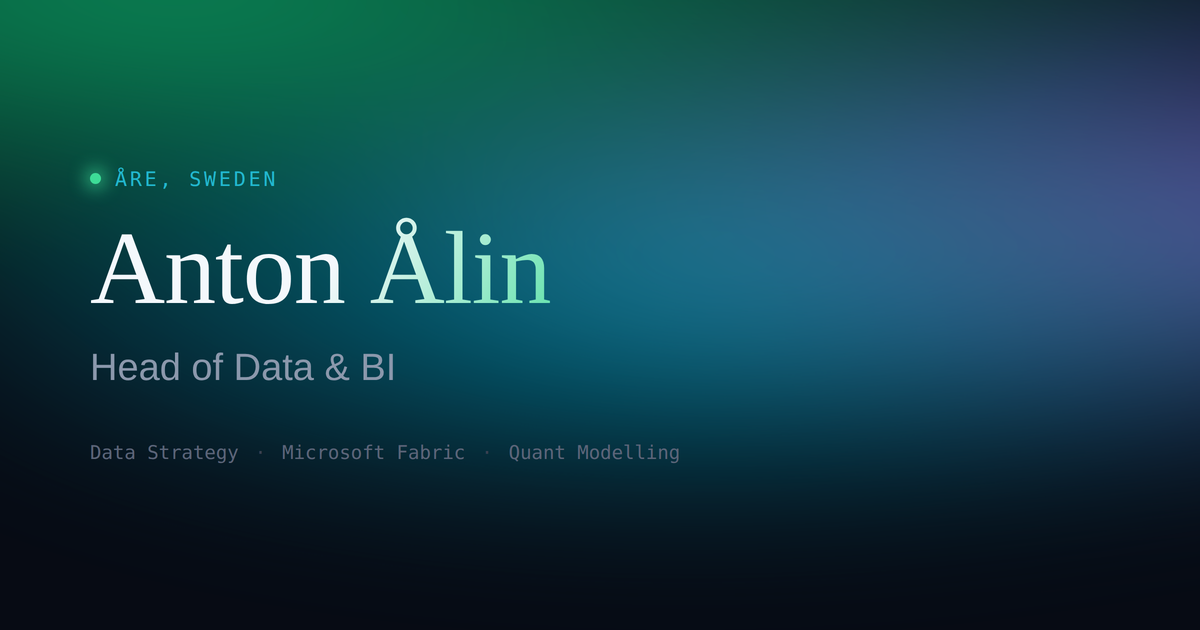
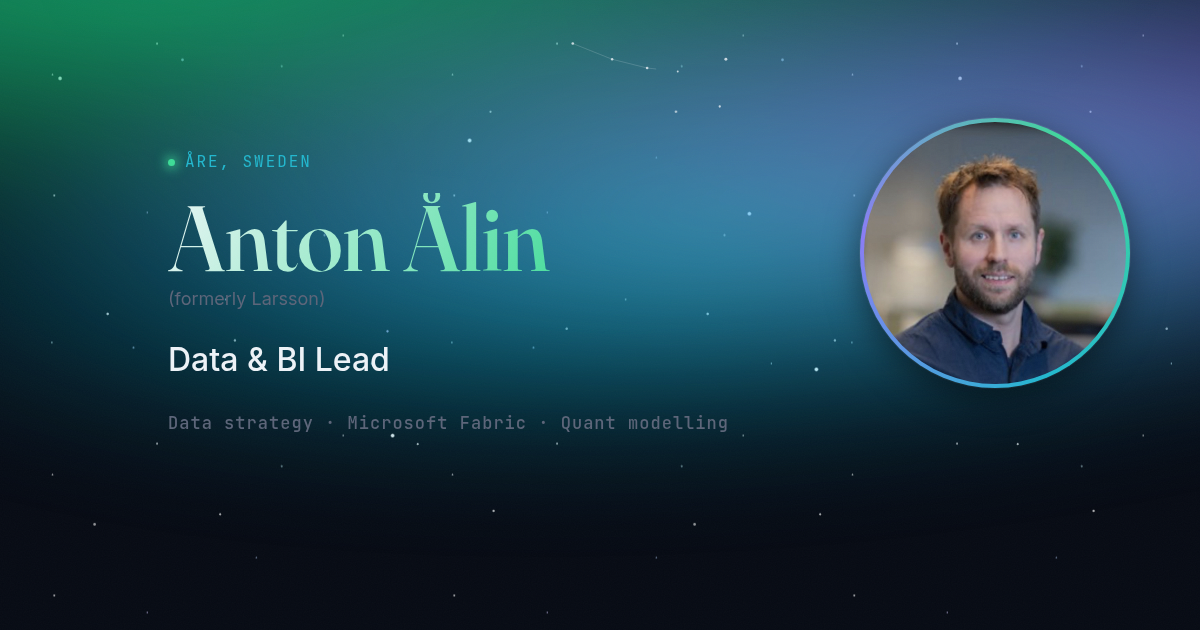
Share image from the page, sky from Åre's sun, snow when it snows
The Open Graph card is rendered by tools/build-og.py in the PDF workflow,
so what LinkedIn shows can never drift from the page (the hand-made one
still said "Head of Data & BI"). og-mode styles the hero for 1200x630.

The time-of-day phase now follows the sun's altitude over Åre rather
than fixed hours: civil twilight is dawn or dusk by side of solar noon,
midsummer never reaches night, a December afternoon does. Tests pin
known moments and the noon altitude at midsummer.

Open-Meteo's snowfall and snow depth feed the sky line ("Snödjup
Åreskutan 84 cm · snöar nu") and a light snowfall in the hero while it
snows, screen only.

Claude-Session: https://claude.ai/code/session_01EvjgkGhfjgsHR3tQt4VJgB

diff --git a/index.html b/index.html
@@ -500,6 +500,26 @@
   }
   body.tod-day .hero-sun{opacity:.9;transform:scale(1);}
 
+  /* ---------- Share image ----------
+     tools/build-og.py adds og-mode and captures 1200x630: the hero fills the
+     card, the bar and everything interactive stay out of the picture. */
+  body.og-mode .controlbar, body.og-mode .sky-line, body.og-mode .meta-row,
+  body.og-mode .portrait-dots, body.og-mode .kicker-summary, body.og-mode .hero-sun,
+  body.og-mode .hero-cloud, body.og-mode .hero-moon{display:none !important;}
+  body.og-mode .hero{min-height:630px;padding:150px 0 0;border-bottom:none;}
+  body.og-mode .hero-content{padding-right:0;}
+  body.og-mode h1.name{font-size:92px;}
+  body.og-mode .role-line{font-size:32px;margin-top:22px;color:var(--text-hi);}
+  body.og-mode .role-line::after{
+    content:"Data strategy · Microsoft Fabric · Quant modelling";display:block;margin-top:26px;
+    font-family:'JetBrains Mono',monospace;font-size:17px;letter-spacing:.06em;color:var(--text-faint);
+  }
+  body.og-mode .role-former{font-size:18px;}
+  body.og-mode .eyebrow{font-size:16px;}
+  body.og-mode .portrait-frame{position:fixed;top:118px;right:70px;}
+  body.og-mode .portrait-ring{width:270px;height:270px;}
+  body.og-mode .aurora-layer{opacity:.7;}
+
   /* ---------- Moon and space weather ----------
      The moon is drawn by script with tonight's real phase; it fades out by
      day. The aurora layer's strength follows NOAA's planetary K-index when
@@ -517,6 +537,19 @@
   body.tod-dawn  .hero-moon{opacity:.5;transform:scale(1);}
   @media (max-width:760px){ .hero-moon{top:3%;right:auto;left:8%;width:40px;height:40px;} }
   @media (prefers-reduced-motion: reduce){ .hero-moon{transition:none;} }
+  /* Snow: drawn only while Open-Meteo reports snowfall on Åreskutan */
+  .hero-snow{position:absolute;inset:0;z-index:0;pointer-events:none;overflow:hidden;}
+  .hero-snow i{
+    position:absolute;top:-12px;display:block;border-radius:50%;
+    background:rgba(255,255,255,.75);filter:blur(.4px);
+    animation:snow-fall linear infinite;
+  }
+  @keyframes snow-fall{
+    0%{transform:translate3d(0,0,0);opacity:0;}
+    8%{opacity:1;}
+    100%{transform:translate3d(var(--sx,20px),calc(100% + 640px),0);opacity:.2;}
+  }
+  @media (prefers-reduced-motion: reduce){ .hero-snow{display:none;} }
   .sky-line{
     display:flex;flex-wrap:wrap;gap:6px 14px;margin-top:14px;
     font-family:'JetBrains Mono',monospace;font-size:11.5px;letter-spacing:.06em;
@@ -1334,7 +1367,7 @@
 
     .controlbar, .aurora-layer, .scroll-progress{display:none !important;}
     .hero-sun, .hero-cloud, .career-map, .skip-link, .music, .game-btn, .quiz-scrim, .hero-moon, .sky-line,
-    .live-note, .project-chart.is-live, .mc-wrap, .ski-scrim{display:none !important;}
+    .live-note, .project-chart.is-live, .mc-wrap, .ski-scrim, .hero-snow{display:none !important;}
     .verify-trigger, .verify-popover, .vcard-btn{display:none !important;}
 
     /* Scroll-reveal must never hide content on paper */
@@ -2260,16 +2293,34 @@
      this only decides which of the four applies. Rechecked every ten minutes
      in case a visit spans a phase boundary — the registered custom properties
      then ease the aurora across rather than snapping on the next repaint. */
-  (function(){
+  var cvTod = (function(){
     var PHASES = ['tod-day', 'tod-dusk', 'tod-night', 'tod-dawn'];
-    function phase(hour){
-      if(hour >= 5  && hour < 8)  return 'tod-dawn';
-      if(hour >= 8  && hour < 17) return 'tod-day';
-      if(hour >= 17 && hour < 22) return 'tod-dusk';
+    /* The sky is Åre's, not the visitor's: the sun's altitude over 63.4°N,
+       13.08°E at this moment decides the phase. Day above the horizon,
+       civil twilight (0 to −6°) is dawn or dusk by which side of solar noon
+       we are on, and below that it is night. Midsummer never gets dark. */
+    var LAT = 63.4 * Math.PI / 180, LON = 13.08;
+    function sun(date){
+      var d = date.getTime() / 864e5 - 10957.5;                                   /* days since J2000.0 */
+      var g = (357.529 + .98560028 * d) * Math.PI / 180;                          /* mean anomaly */
+      var L = (280.459 + .98564736 * d + 1.915 * Math.sin(g) + .02 * Math.sin(2 * g)) * Math.PI / 180;
+      var e = (23.439 - 3.6e-7 * d) * Math.PI / 180;
+      var ra = Math.atan2(Math.cos(e) * Math.sin(L), Math.cos(L));
+      var dec = Math.asin(Math.sin(e) * Math.sin(L));
+      var gmst = (18.697374558 + 24.06570982441908 * d) % 24;
+      var H = ((gmst + LON / 15) * 15 * Math.PI / 180) - ra;                       /* hour angle, 0 at solar noon */
+      var alt = Math.asin(Math.sin(LAT) * Math.sin(dec) + Math.cos(LAT) * Math.cos(dec) * Math.cos(H));
+      var hDeg = ((H * 180 / Math.PI) % 360 + 360) % 360;
+      return {alt: alt * 180 / Math.PI, afternoon: hDeg < 180};
+    }
+    function phase(date){
+      var s = sun(date || new Date());
+      if(s.alt > 0){ return 'tod-day'; }
+      if(s.alt > -6){ return s.afternoon ? 'tod-dusk' : 'tod-dawn'; }
       return 'tod-night';
     }
     function apply(){
-      var next = phase(new Date().getHours());
+      var next = phase(new Date());
       if(document.body.classList.contains(next)){ return; }
       PHASES.forEach(function(p){ document.body.classList.remove(p); });
       document.body.classList.add(next);
@@ -2277,6 +2328,7 @@
     }
     apply();
     setInterval(apply, 10 * 60 * 1000);
+    return {phase: phase, sun: sun};
   })();
 
   /* ---------- Moon phase and space weather ----------
@@ -2288,7 +2340,7 @@
     var SYNODIC = 29.530588853, NEW_MOON = Date.UTC(2000, 0, 6, 18, 14);
     var KP_URL = 'https://services.swpc.noaa.gov/products/noaa-planetary-k-index-forecast.json';
     var KP_LOCAL = 'data/kp.json';   /* refreshed by .github/workflows/update-kp.yml */
-    var KP_KEY = 'cv-kp', kp = null;
+    var KP_KEY = 'cv-kp', kp = null, snow = null;   /* snow: {falling: cm/h, depth: m} from the weather card */
     function en(){ return document.body.classList.contains('lang-en'); }
     function moon(date){
       var age = (((date || new Date()).getTime() - NEW_MOON) / 864e5) % SYNODIC;
@@ -2321,6 +2373,10 @@
       var m = moon(), isEn = en(), parts = [];
       var moonUp = /tod-(night|dusk|dawn)/.test(document.body.className);
       if(moonUp){ parts.push('<span>\u263D <b>' + (isEn ? m.en : m.sv) + '</b> ' + Math.round(m.fraction * 100) + '\u00a0%</span>'); }
+      if(snow && snow.depth >= .05){
+        parts.push('<span>\u2744 ' + (isEn ? 'Snow depth Åreskutan' : 'Snödjup Åreskutan') + ' <b>' + Math.round(snow.depth * 100) + '\u00a0cm</b>'
+          + (snow.falling > 0 ? ' \u00b7 ' + (isEn ? 'snowing now' : 'snöar nu') : '') + '</span>');
+      }
       if(kp){
         var v = kp.tonight, tier = v >= 5 ? 5 : v >= 4 ? 4 : v >= 2 ? 2 : 0;
         var word = isEn
@@ -2360,11 +2416,32 @@
         applyKp(); line();
       }).catch(function(){ line(); });
     }
+    function flakes(on){
+      var hero = document.querySelector('.hero'); if(!hero){ return; }
+      var host = hero.querySelector('.hero-snow');
+      if(!on){ if(host){ host.remove(); } return; }
+      if(host){ return; }
+      host = document.createElement('div'); host.className = 'hero-snow'; host.setAttribute('aria-hidden', 'true');
+      var html = '';
+      for(var i = 0; i < 44; i++){
+        var size = (2 + Math.random() * 3).toFixed(1), dur = (9 + Math.random() * 9).toFixed(1);
+        html += '<i style="left:' + (Math.random() * 100).toFixed(1) + '%;width:' + size + 'px;height:' + size + 'px;'
+          + 'animation-duration:' + dur + 's;animation-delay:-' + (Math.random() * 18).toFixed(1) + 's;--sx:' + Math.round(-30 + Math.random() * 60) + 'px;opacity:' + (.4 + Math.random() * .5).toFixed(2) + '"></i>';
+      }
+      host.innerHTML = html;
+      hero.insertBefore(host, hero.firstChild);
+    }
+    document.addEventListener('cv:weather', function(e){
+      snow = e.detail && {falling: +e.detail.snowfall || 0, depth: +e.detail.snowDepth || 0};
+      document.body.classList.toggle('is-snowing', !!(snow && snow.falling > 0));
+      flakes(snow && snow.falling > 0);
+      line();
+    });
     document.addEventListener('cv:lang', line);
     document.addEventListener('cv:tod', line);
     drawMoon(); line(); load();
     setInterval(drawMoon, 60 * 60 * 1000);
-    return {moon: moon, kp: function(){ return kp; }, parse: parse};
+    return {moon: moon, kp: function(){ return kp; }, snow: function(){ return snow; }, parse: parse};
   })();
 
   /* ---------- Portrait carousel ---------- */
@@ -2929,13 +3006,15 @@
     function are(){
       var card = document.querySelector('[data-live="are"]'); if(!card){ return; }
       getJSON('https://api.open-meteo.com/v1/forecast?latitude=63.4306&longitude=13.085&elevation=1420'
-        + '&current=temperature_2m,wind_speed_10m,weather_code&hourly=temperature_2m&forecast_days=1'
+        + '&current=temperature_2m,wind_speed_10m,weather_code,snowfall,snow_depth&hourly=temperature_2m&forecast_days=1'
         + '&timezone=Europe%2FStockholm&wind_speed_unit=ms').then(function(j){
         var c = j && j.current, h = j && j.hourly;
         if(!c || !h || !Array.isArray(h.temperature_2m) || h.temperature_2m.length < 12){ throw new Error('shape'); }
         var cur = Math.max(0, h.time.indexOf(String(c.time).slice(0, 13) + ':00'));
-        state.are = {temp: +c.temperature_2m, wind: +c.wind_speed_10m, code: +c.weather_code, hourly: h.temperature_2m.map(Number), cur: cur};
+        state.are = {temp: +c.temperature_2m, wind: +c.wind_speed_10m, code: +c.weather_code, hourly: h.temperature_2m.map(Number), cur: cur,
+                     snowfall: +c.snowfall || 0, snowDepth: +c.snow_depth || 0};
         renderAre();
+        document.dispatchEvent(new CustomEvent('cv:weather', {detail: {snowfall: state.are.snowfall, snowDepth: state.are.snowDepth}}));
       }).catch(function(){});
     }
 

diff --git a/tests/test_screen.py b/tests/test_screen.py
@@ -47,7 +47,8 @@ with sync_playwright() as p:
                     "time_start": f"{_day.isoformat()}T{h:02d}:00:00+02:00", "time_end": f"{_day.isoformat()}T{(h + 1) % 24:02d}:00:00+02:00"}
                    for h in range(24)]
     _hour = _dt.datetime.now().hour
-    ARE_FIXTURE = {"current": {"time": f"{_day.isoformat()}T{_hour:02d}:00", "temperature_2m": -1.3, "wind_speed_10m": 9.4, "weather_code": 71},
+    ARE_FIXTURE = {"current": {"time": f"{_day.isoformat()}T{_hour:02d}:00", "temperature_2m": -1.3, "wind_speed_10m": 9.4, "weather_code": 71,
+                               "snowfall": 0.42, "snow_depth": 0.84},
                    "hourly": {"time": [f"{_day.isoformat()}T{h:02d}:00" for h in range(24)],
                               "temperature_2m": [round(-4 + 5 * (1 - abs(h - 14) / 14), 1) for h in range(24)]}}
     pg.route("**elprisetjustnu.se/**", lambda route: route.fulfill(status=200, content_type="application/json", body=_json.dumps(SE2_FIXTURE)))
@@ -542,6 +543,15 @@ with sync_playwright() as p:
           lv["are"] and lv["are"]["temp"] == -1.3 and lv["are"]["code"] == 71
           and all(w in arec.locator(".live-note").inner_text() for w in ("Åreskutan", "−1,3", "°C", "m/s", "snö"))
           and arec.locator(".project-chart.is-live").count() == 1, arec.locator(".live-note").inner_text())
+    check("snow on Åreskutan falls in the hero and is measured in the sky line",
+          pg.evaluate("document.body.classList.contains('is-snowing')")
+          and pg.locator(".hero .hero-snow i").count() > 20
+          and "Snödjup Åreskutan" in pg.locator("#sky-line").inner_text()
+          and "84\xa0cm" in pg.locator("#sky-line").inner_text()
+          and "snöar nu" in pg.locator("#sky-line").inner_text(), pg.locator("#sky-line").inner_text())
+    pg.emulate_media(media="print")
+    check("no snow on paper", pg.eval_on_selector(".hero-snow", "e=>getComputedStyle(e).display") == "none")
+    pg.emulate_media(media="screen")
     pg.click("#btn-en"); pg.wait_for_timeout(200)
     check("live notes follow the language",
           "SE2 now" in se2c.locator(".live-note").inner_text() and "snow" in arec.locator(".live-note").inner_text())
@@ -890,11 +900,12 @@ with sync_playwright() as p:
     tzctx = b.new_context(timezone_id="UTC")
     seen = {}
     star_op = {}
+    # Åre, 10 January: civil dawn about 07:20Z, sunrise 08:40Z, sunset 13:35Z, dark by 14:55Z.
     for fixed, want in [
         ("2026-01-10T02:00:00Z", "tod-night"),
-        ("2026-01-10T06:30:00Z", "tod-dawn"),
-        ("2026-01-10T12:00:00Z", "tod-day"),
-        ("2026-01-10T19:30:00Z", "tod-dusk"),
+        ("2026-01-10T08:00:00Z", "tod-dawn"),
+        ("2026-01-10T11:00:00Z", "tod-day"),
+        ("2026-01-10T14:15:00Z", "tod-dusk"),
     ]:
         tpg = tzctx.new_page()
         tpg.clock.set_fixed_time(fixed)
@@ -917,6 +928,16 @@ with sync_playwright() as p:
                   float(tpg.eval_on_selector(".hero-sun", "e=>getComputedStyle(e).opacity")) == 0
                   and float(tpg.eval_on_selector(".hero-cloud", "e=>getComputedStyle(e).opacity")) == 0)
         tpg.close()
+    # The sun's altitude itself: noon at midsummer is about 50° over Åre, and the
+    # midnight sun leaves the sky in twilight rather than night.
+    tpg = tzctx.new_page(); fontmirror.prepare(tpg, URL)
+    noon = tpg.evaluate("cvTod.sun(new Date('2026-06-21T11:08:00Z')).alt")
+    check("solar altitude at midsummer noon is about 50 degrees", abs(noon - 50) < 1.5, noon)
+    check("midsummer midnight over Åre is twilight, never night",
+          tpg.evaluate("cvTod.phase(new Date('2026-06-21T00:00:00Z'))") in ("tod-dawn", "tod-dusk")
+          and tpg.evaluate("cvTod.phase(new Date('2026-12-21T02:00:00Z'))") == "tod-night"
+          and tpg.evaluate("cvTod.phase(new Date('2026-12-21T19:00:00Z'))") == "tod-night")
+    tpg.close()
     tzctx.close()
     check("different phases actually carry different aurora colours",
           len(set(seen.values())) > 1, seen)

diff --git a/tools/build-og.py b/tools/build-og.py
@@ -1,0 +1,49 @@
+#!/usr/bin/env python3
+"""Render the social-sharing image (og-image.png) from the live page.
+
+LinkedIn, Slack and the rest show this card whenever the CV's URL is
+shared. Rendering it from index.html itself, in the PDF workflow, means it
+can never drift from the page: same name, same title, same sky.
+
+    python tools/build-og.py           # writes og-image.png (1200x630)
+"""
+import os
+import pathlib
+import sys
+
+import fontmirror
+from playwright.sync_api import sync_playwright
+
+ROOT = pathlib.Path(__file__).resolve().parent.parent
+OUT = ROOT / "og-image.png"
+SITE = (ROOT / "index.html").as_uri()
+W, H = 1200, 630
+
+
+def main():
+    with sync_playwright() as p:
+        exe = os.environ.get("CHROMIUM_PATH")
+        browser = p.chromium.launch(executable_path=exe) if exe else p.chromium.launch()
+        page = browser.new_page(viewport={"width": W, "height": H}, device_scale_factor=1)
+        # Nothing external: the sky and the cards fall back to their drawings.
+        page.route("**/*", lambda r: r.abort() if r.request.url.startswith("http") else r.continue_())
+        fontmirror.prepare(page, SITE)
+        page.evaluate("""() => {
+          document.body.classList.remove('tod-day', 'tod-dusk', 'tod-dawn');
+          document.body.classList.add('tod-night', 'og-mode');
+          document.dispatchEvent(new CustomEvent('cv:tod'));
+          setLang('en');
+          document.querySelectorAll('.reveal').forEach(e => e.classList.add('is-in'));
+        }""")
+        page.wait_for_timeout(2800)   # aurora colours ease over 2.6 s
+        page.screenshot(path=str(OUT), clip={"x": 0, "y": 0, "width": W, "height": H})
+        browser.close()
+    size = OUT.stat().st_size
+    if size < 20_000:
+        sys.exit(f"og-image.png looks empty ({size} bytes)")
+    print(f"wrote {OUT.name} ({W}x{H}, {size // 1024} KB)")
+    return 0
+
+
+if __name__ == "__main__":
+    sys.exit(main())
